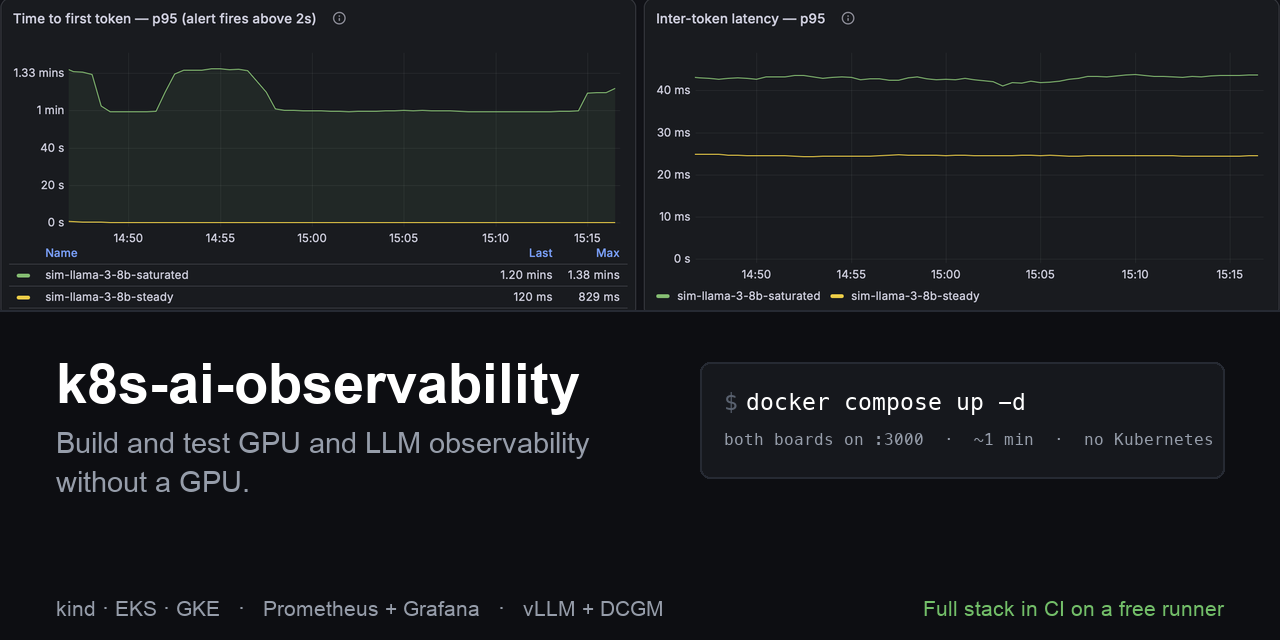
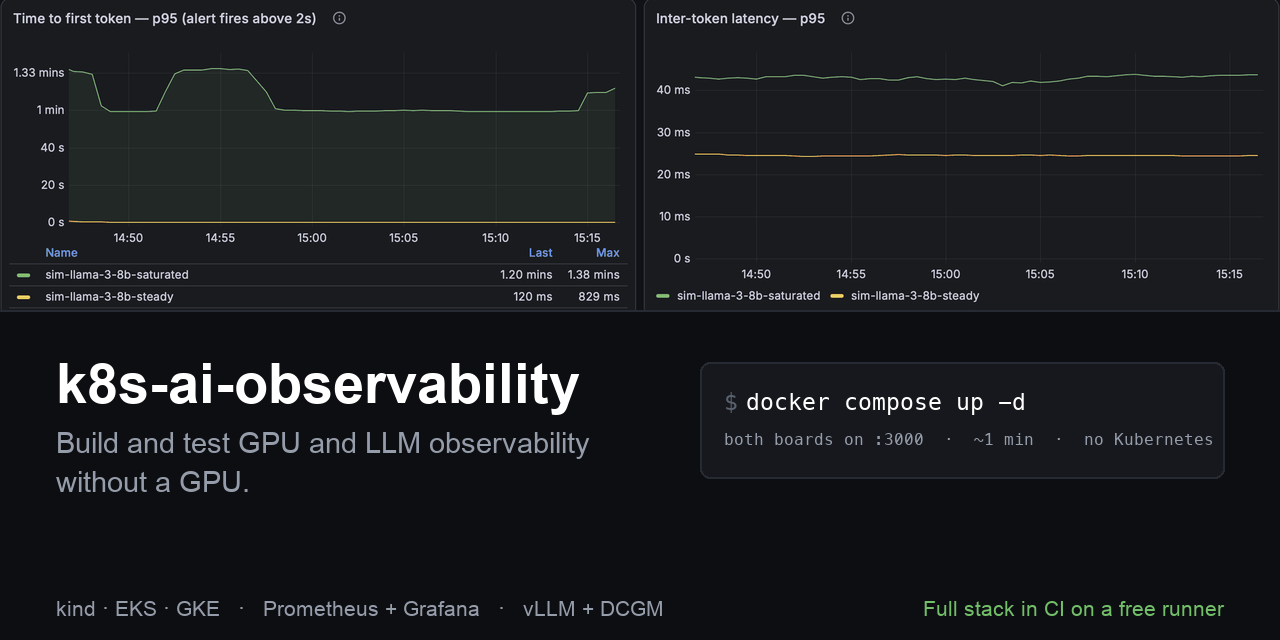
Optimise the README screenshots, and crop the social card by fraction
The two dashboard screenshots were 3456px wide against GitHub's ~896px content
column, so three quarters of every byte reached no display at any pixel ratio.
Resized to 2400px and quantised to a 256-entry palette: 1.1 MB -> 414 KB, a 62%
cut in what the README costs a visitor before they have read a word.

Visually lossless rather than merely acceptable. These are flat UI screenshots
with ~2700 distinct colours, so 256 entries reproduce them at a measured mean
channel error of 0.19/255, and dithering changes nothing -- there is almost no
gradient to dither. Verified by eye at 1:1 as well as by that number.

2400px rather than the 1792px the README alone would want, because
social-preview.py crops 78% of llm-dashboard.png and renders it 1280px wide: at
a 1792px source that crop is a 1.09x downscale and the card's text visibly
softens. The alternative was a second full-resolution copy of the same
screenshot, which is the duplicate this repo avoids everywhere else.

That resize would have silently moved the social card's crop, which is the
failure the previous commit's changelog entry warned about. Fixed at the root
rather than re-derived: the crop is now expressed as fractions of the source,
since the invariant that holds is "the top row occupies this proportion of the
board" -- Grafana lays panels out on a 24-column grid, so it survives both a
differently-sized window and a later resize. Confirmed byte-identical output
[…]

diff --git a/docs/optimize-images.py b/docs/optimize-images.py
@@ -1,0 +1,71 @@
+#!/usr/bin/env python3
+"""Optimise the dashboard screenshots for GitHub. Run after retaking one.
+
+    pip install pillow && python3 docs/optimize-images.py
+
+Idempotent: a file already at the target width and colour depth is left alone, so
+this is safe to re-run and safe to wire into a pre-commit hook.
+
+WHY 2400px, when GitHub renders READMEs in a ~896 CSS-px column and 2x that is
+1792? Because these files have a second consumer. docs/social-preview.py crops the
+top ~78% of llm-dashboard.png and renders it 1280px wide, so a 1792px source leaves
+that crop at 1391px — a 1.09x downscale, which measurably softens the card's text.
+2400px keeps it a genuine 1.45x supersample. The cost is ~220 KB across both files
+versus 1792px; the alternative is a second full-resolution copy of the same
+screenshot, which is the kind of duplicate this repo avoids everywhere else.
+
+WHY palette-256 rather than a quality knob: these are flat UI screenshots with
+~2700 distinct colours, so a 256-entry palette is visually lossless here — measured
+mean channel error 0.19/255, and dithering changes nothing because there is almost
+no gradient to dither. It is not a lossy setting that happens to look acceptable.
+Re-check that assumption if the boards ever gain a heat-map or a photographic panel.
+"""
+from PIL import Image
+import os
+import sys
+
+WIDTH = 2400
+COLOURS = 256
+DOCS = os.path.dirname(os.path.abspath(__file__))
+IMAGES = ("gpu-dashboard.png", "llm-dashboard.png")
+
+
+def optimise(path):
+    before = os.path.getsize(path)
+    im = Image.open(path)
+
+    if im.size[0] <= WIDTH and im.mode == "P":
+        print(f"  {os.path.basename(path):22} already optimised, skipped")
+        return 0, 0
+
+    im = im.convert("RGB")
+    if im.size[0] > WIDTH:
+        h = round(im.size[1] * WIDTH / im.size[0])
+        im = im.resize((WIDTH, h), Image.LANCZOS)
+
+    # MEDIANCUT + no dither: dithering buys nothing on flat UI and costs bytes.
+    im = im.quantize(colors=COLOURS, method=Image.Quantize.MEDIANCUT,
+                     dither=Image.Dither.NONE)
+    im.save(path, "PNG", optimize=True)
+
+    after = os.path.getsize(path)
+    print(f"  {os.path.basename(path):22} {im.size[0]}x{im.size[1]}  "
+          f"{before/1024:6.0f}K -> {after/1024:5.0f}K  ({100 - 100*after/before:.0f}% smaller)")
+    return before, after
+
+
+if __name__ == "__main__":
+    print(f"optimising to {WIDTH}px wide, {COLOURS}-colour palette")
+    total_b = total_a = 0
+    for name in IMAGES:
+        p = os.path.join(DOCS, name)
+        if not os.path.exists(p):
+            sys.exit(f"ERROR: {p} does not exist")
+        b, a = optimise(p)
+        total_b += b
+        total_a += a
+    if total_b:
+        print(f"  {'total':22} {total_b/1024:6.0f}K -> {total_a/1024:5.0f}K")
+        print("\nNOTE: llm-dashboard.png feeds docs/social-preview.py — regenerate the")
+        print("card so it matches the source it claims to come from:")
+        print("  python3 docs/social-preview.py docs/social-preview.png")

diff --git a/docs/social-preview.py b/docs/social-preview.py
@@ -16,12 +16,27 @@ RULE = (38, 42, 51)
 
 # --- the panel band ------------------------------------------------------
 # Crop the whole top row of the board: "Time to first token - p95 (alert fires
-# above 2s)" and "Inter-token latency - p95". Coords are in the ORIGINAL 3456x1988
-# screenshot. Both panels complete, no awkward cuts.
-CROP = (631, 230, 631 + 2682, 230 + 649)   # 2682x649, ~4.13:1
-BAND_H = round(1280 / (2682 / 649))         # 310
+# above 2s)" and "Inter-token latency - p95". Both panels complete, no awkward cuts.
+#
+# Expressed as FRACTIONS of the source, not pixels. The invariant that actually
+# holds is "the top row occupies this proportion of the board" — Grafana lays the
+# panels out on a 24-column grid, so that stays true whatever size the window was
+# when the screenshot was taken, and whatever the file is later resized to. Pixel
+# coordinates held neither: the first optimisation pass over docs/*.png would have
+# silently moved the crop.
+FRAC = (0.1826, 0.1157, 0.9586, 0.4422)     # x0, y0, x1, y1
 
-panel = Image.open(SRC).convert("RGB").crop(CROP).resize((W, BAND_H), Image.LANCZOS)
+src = Image.open(SRC).convert("RGB")
+sw, sh = src.size
+box = (round(FRAC[0] * sw), round(FRAC[1] * sh), round(FRAC[2] * sw), round(FRAC[3] * sh))
+BAND_H = round(W / ((box[2] - box[0]) / (box[3] - box[1])))   # 310 at any source size
+
+if box[2] - box[0] < W:
+    print(f"WARN: crop is {box[2]-box[0]}px wide, upscaling to {W} — card text will be "
+          f"soft. Regenerate from a source at least {round(W / (FRAC[2]-FRAC[0]))}px wide.",
+          file=sys.stderr)
+
+panel = src.crop(box).resize((W, BAND_H), Image.LANCZOS)
 
 card = Image.new("RGB", (W, H), BG)
 card.paste(panel, (0, 0))

diff --git a/CHANGELOG.md b/CHANGELOG.md
@@ -31,14 +31,39 @@ Comparison links are at the foot of this file, one per released version.
   history and a way back: the card is the top row of the LLM board — both tenants either
   side of the 2s threshold — over the repo name, the compose one-liner and the CI claim.
 
-  `docs/social-preview.py` regenerates it (needs `pillow`, nothing else). ⚠ It crops
-  `docs/llm-dashboard.png` by **hardcoded pixel coordinates**, so retaking that
-  screenshot at a different window size moves the crop and the box in the script has to
-  be re-derived. Nothing checks this — the card is not on any install or CI path.
+  `docs/social-preview.py` regenerates it (needs `pillow`, nothing else). It crops
+  `docs/llm-dashboard.png` by **fraction rather than by pixel**, because the invariant
+  that actually holds is "the top row occupies this proportion of the board" — Grafana
+  lays panels out on a 24-column grid, so that survives both a differently-sized window
+  and a later resize of the file. It warns if the crop lands under 1280px, the width
+  below which it would be upscaling.
 
   Uploading it is manual, and re-uploading is the only way to change what GitHub serves:
   **Settings → General → Social preview → Edit → Upload an image**. Confirm with
   `gh api repos/ChrisAdkin8/k8s-ai-observability --jq .uses_custom_open_graph_image`.
+
+- `docs/optimize-images.py` — resizes and palette-quantises the dashboard screenshots to
+  the settings below. Idempotent: a file already at the target width and depth is skipped,
+  so it is safe to re-run and safe to wire into a pre-commit hook.
+
+### Changed
+
+- **The dashboard screenshots are optimised** — 1.1 MB down to 414 KB, a 62% cut in what
+  the README costs a first-time visitor before they have read a word. They were 3456px
+  wide against GitHub's ~896px content column, so three quarters of every byte was
+  reaching no display at any pixel ratio.
+
+  Visually lossless rather than merely acceptable: these are flat UI screenshots with
+  ~2700 distinct colours, so a 256-entry palette reproduces them at a measured mean
+  channel error of 0.19/255, and dithering changes nothing because there is almost no
+  gradient to dither. Re-check that if a board ever gains a heat-map or a photographic
+  panel.
+
+  **2400px, not the 1792px the README alone would want**, because `social-preview.py`
+  crops 78% of `llm-dashboard.png` and renders it 1280px wide: at a 1792px source that
+  crop is a 1.09x downscale and the card's text visibly softens. 2400px keeps it a 1.45x
+  supersample. The alternative was a second full-resolution copy of the same screenshot,
+  which is the kind of duplicate this repo avoids everywhere else.
 
 ## [0.2.0] — 2026-07-31
 
